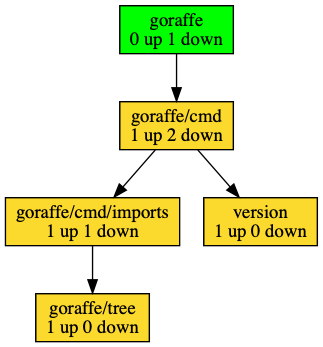
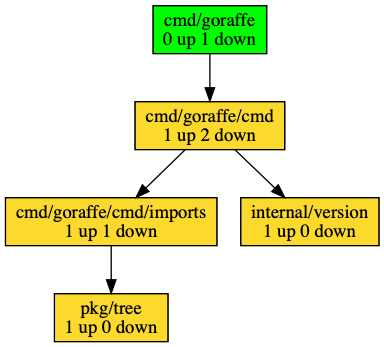
follow project layout guide

diff --git a/cmd/goraffe/cmd/imports/imports.go b/cmd/goraffe/cmd/imports/imports.go
@@ -3,7 +3,7 @@ package imports
 import (
 	"fmt"
 
-	"github.com/spilliams/goraffe/goraffe/tree"
+	"github.com/spilliams/goraffe/pkg/tree"
 
 	"github.com/sirupsen/logrus"
 	"github.com/spf13/cobra"
@@ -89,7 +89,7 @@ goraffe imports github.com/spilliams/goraffe goraffe | dot -Tsvg > graph.svg
 		}
 
 		fmt.Println(graph)
-		
+
 		logrus.Info(importTree.Stats())
 
 		return nil

diff --git a/cmd/goraffe/cmd/root.go b/cmd/goraffe/cmd/root.go
@@ -4,8 +4,8 @@ import (
 	"fmt"
 	"os"
 
-	"github.com/spilliams/goraffe/goraffe/cmd/imports"
-	"github.com/spilliams/goraffe/version"
+	"github.com/spilliams/goraffe/cmd/goraffe/cmd/imports"
+	"github.com/spilliams/goraffe/internal/version"
 
 	"github.com/sirupsen/logrus"
 	"github.com/spf13/cobra"

diff --git a/cmd/goraffe/main.go b/cmd/goraffe/main.go
@@ -1,0 +1,7 @@
+package main
+
+import "github.com/spilliams/goraffe/cmd/goraffe/cmd"
+
+func main() {
+	cmd.Execute()
+}
